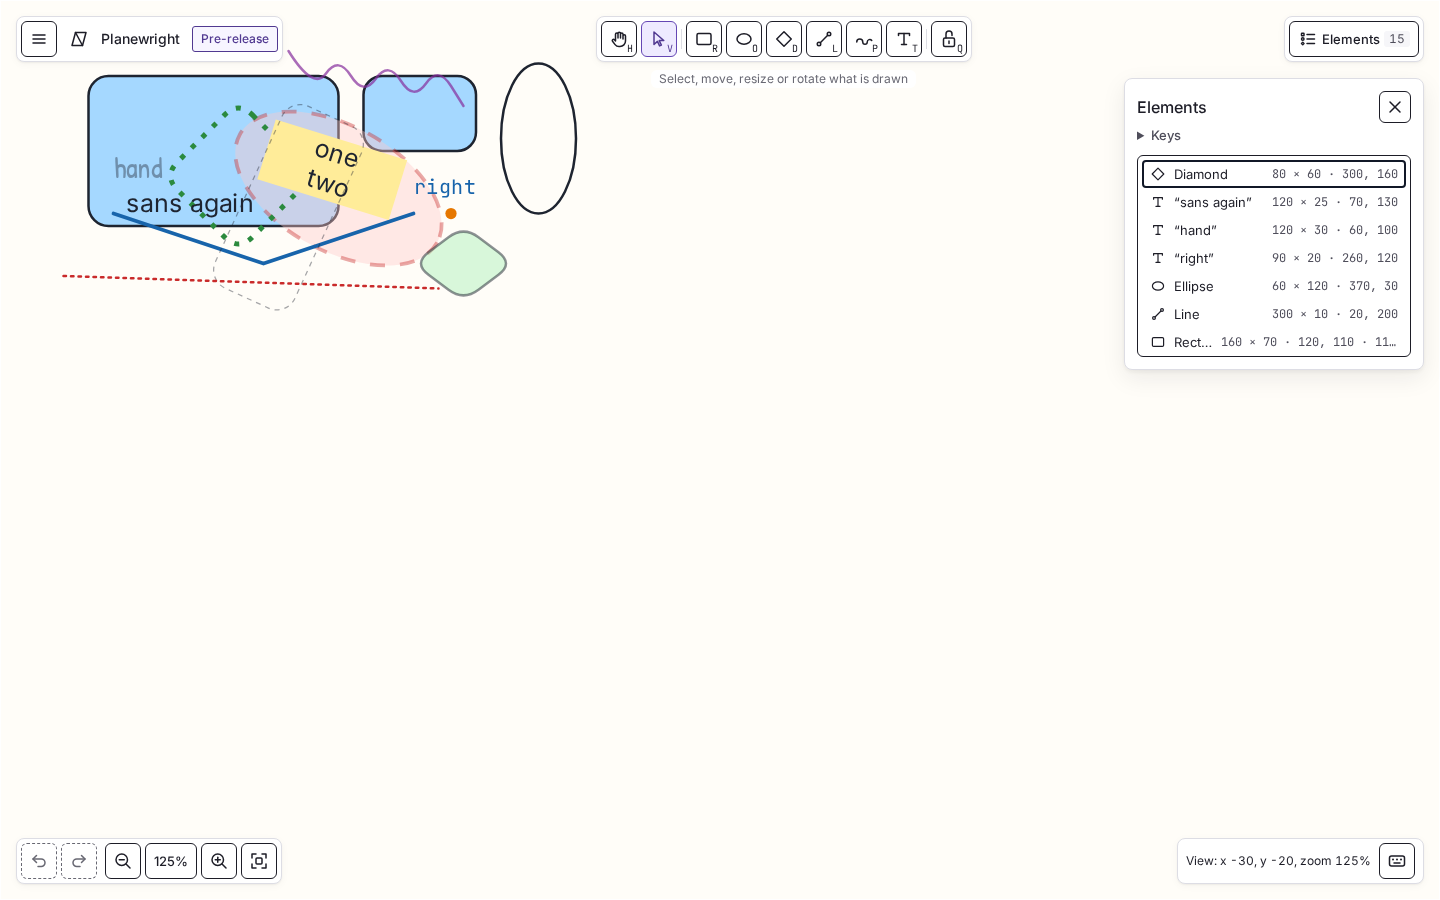
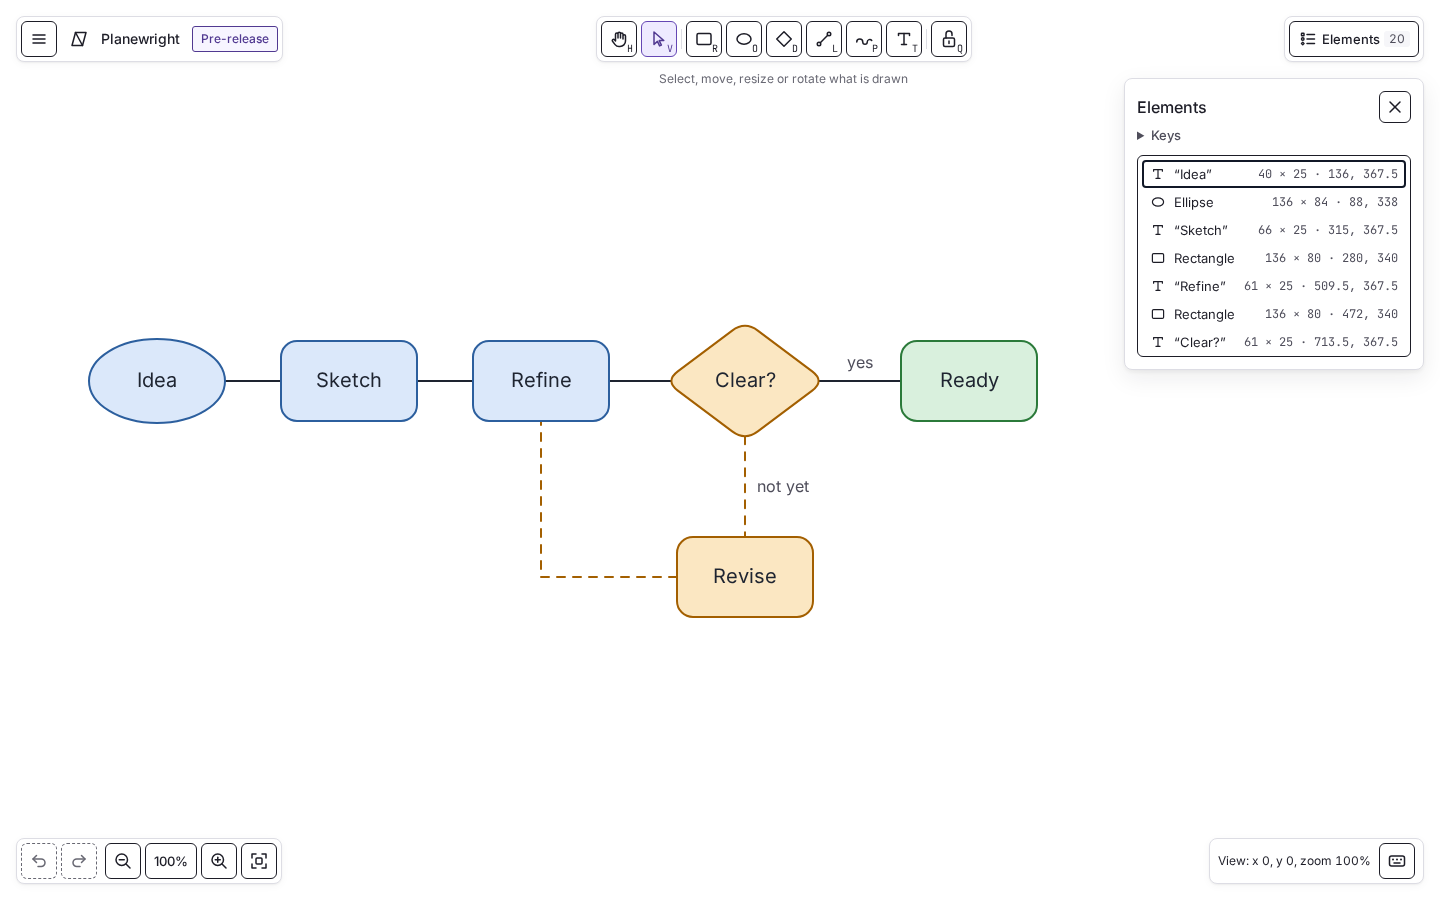
docs: show the README showcase's flow diagram on the desktop and in landscape
The maintainer rejected the README's desktop screenshot, a copy of V09
whose seeded scene piles up overlapping shapes and words, and then asked
for the portrait companion, which cropped the new diagram, to become a
landscape phone that shows it whole. The README now opens with a copy of
the showcase's desktop baseline, the flow diagram at 100 % with the
Elements drawer open. After the account of what the editor does and does
not do it shows the landscape baseline, the whole diagram at 75 % on an
844 × 390 phone, at its own width so that its labels keep 15 px. Both
alternative texts describe the diagram and the chrome around it, and the
caption names the fixture, the emulated insets and the visual baselines
that the images are compared as.

The README screenshots' test now ties each copy to its baseline of the
showcase spec by SHA-256, checks that the spec captures exactly those
two images, and asks each alternative text to name every node of the
diagram. The portrait copy of V19 is removed.

Refs #52

diff --git a/scripts/tests/readme-screenshots.test.ts b/scripts/tests/readme-screenshots.test.ts
@@ -4,14 +4,16 @@ import { join } from 'node:path';
 
 import { describe, expect, it } from 'vitest';
 
-import { DESKTOP, E2E, TOUCH, imageFile, pngSize, shotsIn, testsOf } from './visual-files.ts';
+import { NODES } from '../../apps/web/tests/e2e/showcase-fixture.ts';
+import { E2E, README_SPEC, imageFile, pngSize, shotsIn } from './visual-files.ts';
 
 // The README's screenshots (issue #52): the README opens with the editor, not with a callout, and
 // shows the two screenshots below and no other image, the desktop one before its first section.
-// Each is a byte-for-byte copy of a visual baseline of S13, which CI's Chromium made from the
-// seeded fixture, so a baseline adopted again fails here until the README's copy follows it. Each
-// keeps its size in pixels and its aspect, names Planewright and its viewport in its alternative
-// text, and stays within the README's image budget.
+// Each is a byte-for-byte copy of a baseline of the README showcase's visual spec, which CI's
+// Chromium made from the showcase's flow diagram and compares on every run, so a baseline made
+// again fails here until the README's copy follows it. Each keeps its size in pixels and its aspect,
+// names Planewright, its viewport and every node of the diagram in its alternative text, and stays
+// within the README's image budget.
 
 const ROOT = join(import.meta.dirname, '..', '..');
 const ASSETS = 'docs/assets/readme';
@@ -22,8 +24,6 @@ const MAX_TOTAL_BYTES = 196_608;
 /** A README screenshot: its file, the baseline it copies and how wide the README may show it. */
 interface Screenshot {
   readonly file: string;
-  readonly state: string;
-  readonly spec: string;
   readonly name: string;
   readonly size: readonly [number, number];
   readonly viewport: string;
@@ -32,26 +32,22 @@ interface Screenshot {
 
 const DESKTOP_SHOT: Screenshot = {
   file: 'editor-desktop-1440x900.png',
-  state: 'V09',
-  spec: DESKTOP,
-  name: '1440x900-drawer-open',
+  name: 'readme-desktop-1440x900',
   size: [1440, 900],
   viewport: '1440 × 900',
   maxShownWidth: 1440,
 };
 
-const PHONE_SHOT: Screenshot = {
-  file: 'editor-phone-390x844.png',
-  state: 'V19',
-  spec: TOUCH,
-  name: '390x844-touch-selection-bar',
-  size: [390, 844],
-  viewport: '390 × 844',
-  maxShownWidth: 320,
+const LANDSCAPE_SHOT: Screenshot = {
+  file: 'editor-phone-landscape-844x390.png',
+  name: 'readme-landscape-844x390',
+  size: [844, 390],
+  viewport: '844 × 390',
+  maxShownWidth: 844,
 };
 
 /** The README's screenshots, in the order that it shows them. */
-const SCREENSHOTS = [DESKTOP_SHOT, PHONE_SHOT];
+const SCREENSHOTS = [DESKTOP_SHOT, LANDSCAPE_SHOT];
 
 /** An image of a Markdown document, as `![alt](src)` or `<img>`, with its attributes and offset. */
 interface Image {
@@ -110,14 +106,24 @@ describe('the README', () => {
     expect(sizes.filter((bytes) => bytes > MAX_BYTES)).toEqual([]);
     expect(sizes.reduce((total, bytes) => total + bytes, 0)).toBeLessThanOrEqual(MAX_TOTAL_BYTES);
   });
+
+  it(`copies the baselines that ${README_SPEC} captures, one each, and only those`, () => {
+    const source = readFileSync(join(E2E, README_SPEC), 'utf8');
+    expect(shotsIn(source)).toEqual(SCREENSHOTS.map((shot) => shot.name));
+    const directory = `${README_SPEC}-snapshots`;
+    const images = SCREENSHOTS.map((shot) =>
+      imageFile(README_SPEC, shot.name).slice(directory.length + 1),
+    );
+    expect(readdirSync(join(E2E, directory)).sort()).toEqual(images.sort());
+  });
 });
 
 describe.each(SCREENSHOTS)('the README screenshot $file', (shot) => {
-  it("is a byte-for-byte copy of its visual baseline, its V number's one capture", () => {
-    expect(shotsIn(testsOf(shot.spec).get(shot.state) ?? '')).toEqual([shot.name]);
-    const baseline = join(E2E, imageFile(shot.spec, shot.name));
-    expect(sha256(join(ROOT, pathOf(shot)))).toBe(sha256(baseline));
-    expect(README).toContain(shot.state);
+  it('is a byte-for-byte copy of its README showcase baseline', () => {
+    const baseline = join(E2E, imageFile(README_SPEC, shot.name));
+    expect(sha256(join(ROOT, pathOf(shot))), `${pathOf(shot)} copies ${baseline}`).toBe(
+      sha256(baseline),
+    );
   });
 
   it('keeps its size in pixels and its aspect, shown no wider than its own width', () => {
@@ -129,9 +135,10 @@ describe.each(SCREENSHOTS)('the README screenshot $file', (shot) => {
     expect(Number(shown)).toBeLessThanOrEqual(Math.min(shot.size[0], shot.maxShownWidth));
   });
 
-  it('names Planewright and its viewport in its alternative text', () => {
+  it('names Planewright, its viewport and every node of the diagram in its alternative text', () => {
     const alt = imageOf(shot)?.alt ?? '';
     expect(alt).toContain('Planewright');
     expect(alt).toContain(shot.viewport);
+    expect(NODES.map((node) => node.label).filter((label) => !alt.includes(label))).toEqual([]);
   });
 });

diff --git a/README.md b/README.md
@@ -2,7 +2,7 @@
 
 An independently engineered open-source infinite canvas for drawing and diagrams.
 
-![Planewright's editor in a 1440 × 900 desktop window: the tool palette at the top, a drawing of rectangles, ellipses, a diamond, lines, freehand strokes and texts, the Elements drawer open at the right listing each element's size and position, and the undo, redo, zoom and view controls along the bottom](docs/assets/readme/editor-desktop-1440x900.png)
+![Planewright's editor in a 1440 × 900 desktop window at 100 %, showing a flow diagram: Idea leads through Sketch and Refine to a Clear? decision, whose yes branch reaches Ready and whose not yet branch drops to Revise, which loops back to Refine; the tool palette is at the top, the Elements drawer is open at the right listing the diagram's words and shapes with their sizes and positions, and the undo, redo, zoom and view controls run along the bottom](docs/assets/readme/editor-desktop-1440x900.png)
 
 Planewright is a browser editor in its foundation phase, and no version of it has been released
 yet. Its canvas fills the window, pans and zooms, and has its controls floating over it. Today it
@@ -23,15 +23,15 @@ export, and no collaboration, since the collaboration service is only a skeleton
 budget is measured, and CI gates only the bundle sizes so far; the redraw of 5,000 elements in view
 misses its budget in some CI runs, which issue #49 follows.
 
-<p align="center">
-  <img src="docs/assets/readme/editor-phone-390x844.png" width="240" alt="Planewright's editor on a 390 × 844 phone in portrait: a rectangle selected with its handles, the selection bar under the top bar with Duplicate, Delete and Details, and the tool dock along the bottom under the undo, redo and zoom controls">
-</p>
+![Planewright's editor on an 844 × 390 phone in landscape at 75 %, showing the same flow diagram whole, from Idea, Sketch and Refine through Clear? to Ready and Revise; the menu, the tool palette, whose Tool lock wraps to a second line, and Elements form the top row, the undo, redo and zoom controls and the Keyboard shortcuts button sit at the bottom, and every control keeps clear of the emulated safe areas at the sides and the bottom](docs/assets/readme/editor-phone-landscape-844x390.png)
 
-Both screenshots are
-[visual-regression baselines](docs/architecture/editor-experience.md#what-s13-delivered) that CI's
-Linux Chromium made from the end-to-end tests' seeded drawing and compares on every run: V09, with
-the Elements drawer open, and V19, with a rectangle selected on a phone. The drawing's colours,
-strokes and fonts come from that fixture, since the editor has no style controls yet.
+Both screenshots show one small flow diagram drawn with the editor's own shapes, lines and texts.
+CI's Linux Chromium makes them from a fixture of the end-to-end tests and compares them on every
+run, as it does the
+[visual-regression baselines](docs/architecture/engine/quality.md#visual-baselines). On the phone,
+safe-area insets of 47 px at each side and 21 px at the bottom are emulated. The diagram's colours,
+its words' sizes and their places come from that fixture, since the editor has no style controls
+yet.
 
 ## Goals
 
